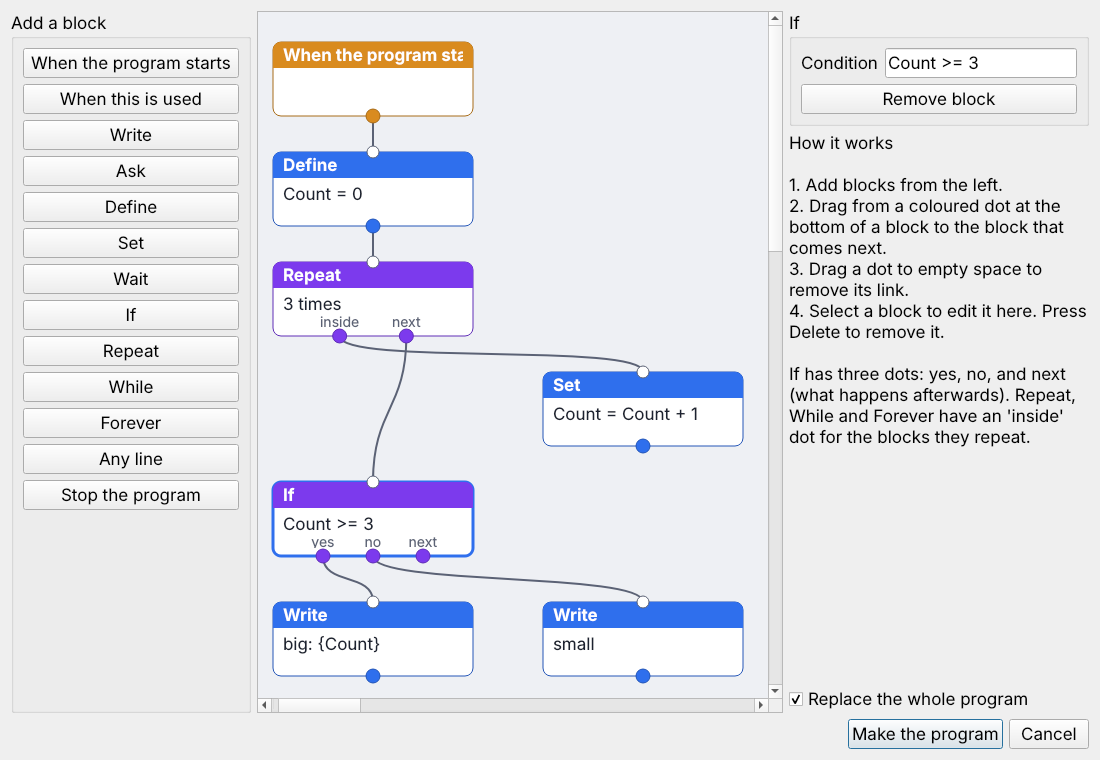
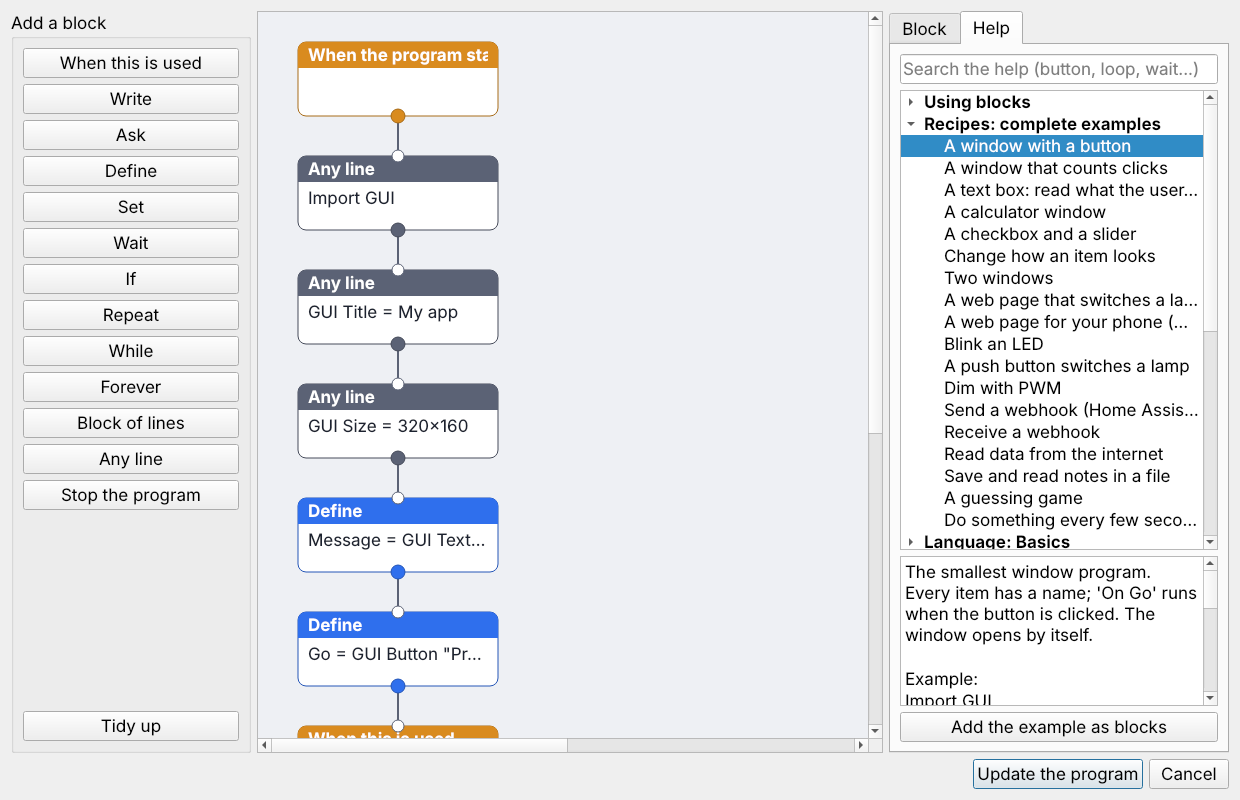
Describe two-way blocks and designers and the recipes in the help
Claude-Session: https://claude.ai/code/session_01NnCrMa61fSmmAGBhA963Ng

Changed region(s): [[0.0, 0.0, 1.0, 0.9987], [0.0927, 0.8776, 0.1236, 0.9382]]

diff --git a/docs/tools/ide.md b/docs/tools/ide.md
@@ -52,37 +52,65 @@ Type a word such as `button`, `loop` or `wait` into the search box.
 Select an entry to read what it does and see an example. Double-click it,
 or press **Insert into program**, to put the example into your program.
 
-The panel contains every statement, every helper, every command of every
-library and every finding of the checker.
+The panel contains:
+
+- **Recipes**: complete small programs, such as a window with a button, a
+  calculator, a web page that switches a lamp, a blinking LED or a webhook
+- every statement and helper of the language
+- every command of every library
+- every finding of the checker
 
 ## Blocks
 
-**Tools → Blocks** (++ctrl+b++) builds a program without typing.
+**Tools → Blocks** (++ctrl+b++) shows the program as blocks that you join
+with the mouse.
 
 ![The block editor](../assets/blocks.png)
 
-1. Add blocks from the list on the left.
+Blocks and text are two views of the same program:
+
+- Opening Blocks reads the program text, including what you typed by hand.
+- **Update the program** writes the blocks back as text.
+
+So you can start with blocks, continue in text, and return to blocks.
+
+### Working with blocks
+
+1. Add blocks from the list on the left. A new block is joined to the
+   selected block, or to the end of the program.
 2. Drag from a coloured dot at the bottom of a block to the block that
-   comes next.
-3. Select a block to fill in its values on the right.
-4. Press **Make the program**.
+   comes next. Drag a dot to empty space to remove its link.
+3. Select a block to fill in its values on the **Block** tab.
+4. Press **Update the program**.
 
 | Block | Meaning |
 |---|---|
-| When the program starts | The beginning of the main program |
-| When this is used | Runs its blocks when an item, pin or event is used |
+| Program starts here | The beginning of the program |
+| When this is used | Runs its blocks when an item, pin or event is used (`On`) |
 | Write, Ask, Define, Set, Wait | The statements of the same name |
 | If | Three dots: `yes`, `no`, and `next` for what happens afterwards |
 | Repeat, While, Forever | An `inside` dot for the blocks they repeat |
+| Block of lines | A `For` loop or a `Function`, with an `inside` dot |
 | Any line | One line of JadivCode, for everything else |
 | Stop the program | Ends the program |
 
-Drag a dot to empty space to remove its link. Press ++delete++ to remove
-the selected block.
+Press ++delete++ to remove the selected block. **Tidy up** arranges all
+joined blocks in neat columns.
 
-The blocks are saved in the last line of the program (`// blocks: ...`).
-Open **Blocks** again to continue. Text you change by hand is not read
-back into the blocks.
+The positions of the blocks are saved in the last line of the program
+(`// blocks: ...`). They are reused as long as the text still matches;
+after you change the text, the blocks are laid out again.
+
+### Help and recipes inside Blocks
+
+The **Help** tab holds the same help as the main window and a guide to
+using blocks. Choose a recipe, for example *A window with a button*, and
+press **Add the example as blocks**: the whole example appears as joined
+blocks, ready to change.
+
+Windows and web pages are built from ordinary blocks: one **Define** block
+per item, and a **When this is used** block with the item's name for what
+happens when it is used.
 
 ## Designers
 
@@ -94,7 +122,8 @@ back into the blocks.
 1. Add texts, buttons, inputs, checkboxes and sliders from the left.
 2. Drag them into place. They snap to a 5 pixel grid.
 3. Edit the name, text and size on the right.
-4. Press **Insert code**.
+4. Press **Insert code**, or **Update the program** when the program
+   already has a window.
 
 The designer writes lines such as:
 
@@ -103,8 +132,15 @@ Define Button1 = GUI Button "Press me" at 20, 60 size 110, 32
 ```
 
 and, when you leave the box ticked, an `On Button1 ... End` block for each
-button. It reads items that are already in the program, so you can reopen
-a design later.
+new button.
+
+The designers work in both directions. When the program already contains a
+window or page, the designer opens it, and **Update the program** changes
+those lines where they are:
+
+- Your other lines, comments and handlers stay untouched.
+- Renaming an item renames it everywhere in the program.
+- Removing an item also removes its `On` handler.
 
 A web page places items from top to bottom in the order you arrange them.
 
